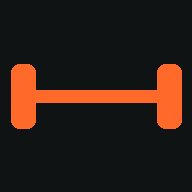
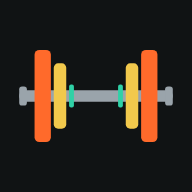
Nuova icona

Changed region(s): [[0.0312, 0.25, 0.9688, 0.75]]

diff --git a/service-worker.js b/service-worker.js
@@ -1,7 +1,7 @@
 /* Service worker — app palestra
    - Pagina: prima dalla rete (così gli aggiornamenti arrivano subito), se non c'è rete o è lenta usa la copia salvata.
    - Altri file (icone, manifest): dalla copia salvata, aggiornata in background. */
-const CACHE_NAME = "ipertrofia-cache-v13";
+const CACHE_NAME = "ipertrofia-cache-v14";
 const ASSETS = [
   "./index.html",
   "./manifest.json",
